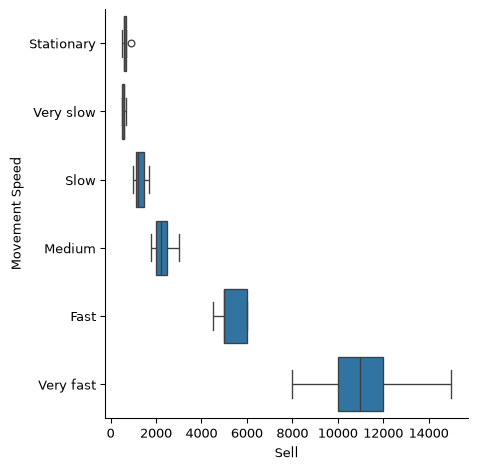
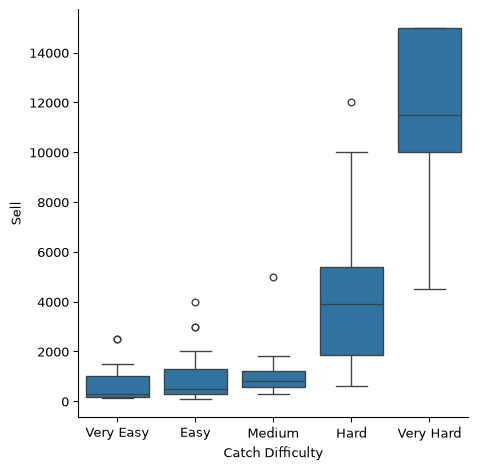
updated critter catching strategy

diff --git a/README.md b/README.md
@@ -6,10 +6,10 @@ Parri Salak
 Animal Crossing New Horizons (ACNH) is a popular video game, and one of
 my personal favorites. One task that players complete during the game is
 catching “critters” in order to complete their muesuem’s collection and
-sell them for money. In the game, each user has a “Critterpedia” that
-keeps track of everything they have caught and donated to the muesuem.
-It is broken down into three categories: Insects, Fish, and Sea
-Creatures.
+sell them for bells (the in-game currency). In the game, each user has a
+“Critterpedia” that keeps track of everything they have caught and
+donated to the muesuem. It is broken down into three categories:
+Insects, Fish, and Sea Creatures.
 
 Currently, the data for the these categories of critters is kept
 seperately. In this project I want to create one complete critterpedia
@@ -330,6 +330,38 @@ plt.show()
 
 It seems like the best time to catch insects is when it is not raining.
 
+``` python
+max_sell = insects['Sell'].max()
+max_sell_insesect = insects[insects['Sell'] == max_sell]
+max_sell_insesect
+```
+
+<div>
+<style scoped>
+    .dataframe tbody tr th:only-of-type {
+        vertical-align: middle;
+    }
+&#10;    .dataframe tbody tr th {
+        vertical-align: top;
+    }
+&#10;    .dataframe thead th {
+        text-align: right;
+    }
+</style>
+
+|  | \# | Name | Icon Image | Sell | Where/How | Weather | Total Catches to Unlock | Spawn Rates | NH Jan | NH Feb | ... | Catch phrase | HHA Base Points | HHA Category | Color 1 | Color 2 | Icon Filename | Critterpedia Filename | Furniture Filename | Internal ID | Unique Entry ID |
+|----|----|----|----|----|----|----|----|----|----|----|----|----|----|----|----|----|----|----|----|----|----|
+| 29 | 61 | giraffe stag | https://nh-cdn.catalogue.ac/MenuIcon/Ins77.png | 12000 | On palm trees | Any weather | 100 | 1 | NaN | NaN | ... | I caught a giraffe stag! Does that make it a l... | 64 | Pet | Black | Black | Ins77 | InsectGirafanokogirikuwagata | FtrInsectGirafanokogirikuwagata | 3482 | PSChjzMhGwhnsHTs4 |
+| 30 | 60 | golden stag | https://nh-cdn.catalogue.ac/MenuIcon/Ins50.png | 12000 | On palm trees | Any weather | 100 | 1 | NaN | NaN | ... | Wooooow! I caught a golden stag! Does this mea... | 64 | Pet | Black | Yellow | Ins50 | InsectOugononikuwagata | FtrInsectOugononikuwagata | 638 | 2C8cSphidFCBPxYEe |
+| 39 | 65 | horned hercules | https://nh-cdn.catalogue.ac/MenuIcon/Ins54.png | 12000 | On palm trees | Any weather | 100 | 1 | NaN | NaN | ... | I caught a horned hercules! Guess I was stronger! | 64 | Pet | Yellow | Black | Ins54 | InsectHerakuresuohkabuto | FtrInsectHerakuresuohkabuto | 600 | TqhEomNEMDZ2wcTpk |
+
+<p>3 rows × 45 columns</p>
+</div>
+
+The higgest sell price for insects is 12,000 bells. The three insects
+with this sell price are the giraffe stag, golden stag, and horned
+hercules.
+
 Next, I’ll look at the catch difficulty of fish and their sell prices.
 
 ``` python
@@ -341,10 +373,44 @@ sns.catplot(data=fish, x='Catch Difficulty', y='Sell', kind='box', order=custom_
 plt.show()
 ```
 
-![](readme_files/figure-commonmark/cell-10-output-1.png)
+![](readme_files/figure-commonmark/cell-11-output-1.png)
 
 As expected, the sell price appears to increase as the fish become more
 difficult to catch.
+
+``` python
+max_sell = fish['Sell'].max()
+max_sell_fish = fish[fish['Sell'] == max_sell]
+max_sell_fish
+```
+
+<div>
+<style scoped>
+    .dataframe tbody tr th:only-of-type {
+        vertical-align: middle;
+    }
+&#10;    .dataframe tbody tr th {
+        vertical-align: top;
+    }
+&#10;    .dataframe thead th {
+        text-align: right;
+    }
+</style>
+
+|  | \# | Name | Icon Image | Sell | Where/How | Shadow | Catch Difficulty | Vision | Total Catches to Unlock | Spawn Rates | ... | HHA Base Points | HHA Category | Color 1 | Color 2 | Lighting Type | Icon Filename | Critterpedia Filename | Furniture Filename | Internal ID | Unique Entry ID |
+|----|----|----|----|----|----|----|----|----|----|----|----|----|----|----|----|----|----|----|----|----|----|
+| 5 | 79 | barreleye | https://nh-cdn.catalogue.ac/MenuIcon/Fish84.png | 15000 | Sea | Small | Very Hard | Very Narrow | 100 | 1 | ... | 71 | Pet | Black | Black | Fluorescent | Fish84 | FishDemenigisu | FtrFishDemenigisu | 4204 | BpqTa4zmTjv3Nm4wE |
+| 18 | 80 | coelacanth | https://nh-cdn.catalogue.ac/MenuIcon/Fish63.png | 15000 | Sea (rainy days) | XX-Large | Very Hard | Very Narrow | 100 | 1–2 | ... | 71 | Pet | Black | Black | Fluorescent | Fish63 | FishSirakansu | FtrFishSirakansu | 2284 | NjMZQ6Xi9NswEXnHH |
+| 23 | 42 | dorado | https://nh-cdn.catalogue.ac/MenuIcon/Fish34.png | 15000 | River | X-Large | Very Hard | Narrow | 100 | 1–2 | ... | 71 | Pet | Yellow | Black | Fluorescent | Fish34 | FishDolado | FtrFishDolado | 2251 | G7ZwD67cRMHBwTSKH |
+| 30 | 29 | golden trout | https://nh-cdn.catalogue.ac/MenuIcon/Fish79.png | 15000 | River (clifftop) | Medium | Very Hard | Very Narrow | 100 | 1 | ... | 71 | Pet | Brown | Black | Fluorescent | Fish79 | FishGoldenTorauto | FtrFishGoldenTorauto | 4193 | wwGzR7FzWNJ7cDz9X |
+| 32 | 74 | great white shark | https://nh-cdn.catalogue.ac/MenuIcon/Fish62.png | 15000 | Sea | X-Large w/Fin | Very Hard | Narrow | 50 | 2 | ... | 71 | Pet | Blue | Blue | No lighting | Fish62 | FishSame | FtrFishSame | 2280 | EPypAeJGuTDGFJRnx |
+| 69 | 30 | stringfish | https://nh-cdn.catalogue.ac/MenuIcon/Fish26.png | 15000 | River (clifftop) | X-Large | Very Hard | Very Narrow | 100 | 1 | ... | 71 | Pet | Brown | Black | Fluorescent | Fish26 | FishItou | FtrFishItou | 2241 | APXg8kSzjcmoGGWSP |
+
+<p>6 rows × 48 columns</p>
+</div>
+
+The highest sell price for fish is 15,000 bells. There are six different
+fish that can be caught and sold at this price.
 
 Finally, I will look at the sell price for sea creatures based on their
 movement speed.
@@ -358,10 +424,40 @@ sns.catplot(data=sea_creatures, x='Sell', y='Movement Speed', kind='box', order=
 plt.show()
 ```
 
-![](readme_files/figure-commonmark/cell-11-output-1.png)
+![](readme_files/figure-commonmark/cell-13-output-1.png)
 
 Faster sea creatures, which are more difficult to catch, also seem to
 have a higher sell price.
+
+``` python
+max_sell = sea_creatures['Sell'].max()
+max_sell_sea_creature = sea_creatures[sea_creatures['Sell'] == max_sell]
+max_sell_sea_creature
+```
+
+<div>
+<style scoped>
+    .dataframe tbody tr th:only-of-type {
+        vertical-align: middle;
+    }
+&#10;    .dataframe tbody tr th {
+        vertical-align: top;
+    }
+&#10;    .dataframe thead th {
+        text-align: right;
+    }
+</style>
+
+|  | \# | Name | Icon Image | Sell | Shadow | Movement Speed | Total Catches to Unlock | Spawn Rates | NH Jan | NH Feb | ... | Color 1 | Color 2 | Lighting Type | Icon Filename | Critterpedia Filename | Furniture Filename | Version Added | Unlocked? | Internal ID | Unique Entry ID |
+|----|----|----|----|----|----|----|----|----|----|----|----|----|----|----|----|----|----|----|----|----|----|
+| 8 | 18 | gigas giant clam | https://nh-cdn.catalogue.ac/MenuIcon/Shakogai.png | 15000 | X-Large | Very fast | 80 | 1 | NaN | NaN | ... | NaN | NaN | Fluorescent | Shakogai | DiveFishShakogai | FtrDiveFishShakogai | 1.3.0 | Yes | 7214 | EQmRaHjokMEGTDC7G |
+
+<p>1 rows × 48 columns</p>
+</div>
+
+Gigas giant clams are the sea creature with the higgest sell price at
+15,000 bells. This is the same price as the higgest sell price for fish,
+but there were many more fish species at that price.
 
 ## Combining the Data
 
@@ -409,7 +505,7 @@ sns.countplot(data=critterpedia, x='type')
 plt.show()
 ```
 
-![](readme_files/figure-commonmark/cell-15-output-1.png)
+![](readme_files/figure-commonmark/cell-18-output-1.png)
 
 How does Sell price differ across types of critters?
 
@@ -419,7 +515,7 @@ sns.catplot(data=critterpedia, x='type', y='Sell', kind='box')
 plt.show()
 ```
 
-![](readme_files/figure-commonmark/cell-16-output-1.png)
+![](readme_files/figure-commonmark/cell-19-output-1.png)
 
 Just based on sell price for each type of critter, it seems like the
 best strategy for making money would be to focus on catching sea
@@ -486,7 +582,7 @@ The variable “Spawn Rates” respresents the percent chance of that
 critter being present on your island/avaiable to catch in your game at
 any given time. However, it is a string datatype right now because some
 of the values are listed as a range like “5-10”. I want to fix this and
-take the average value.
+take the lower number to be more conservative.
 
 ``` python
 #Split the string, take the first value, then make it an integer
@@ -591,4 +687,130 @@ sns.countplot(data=critterpedia, x='type', hue='Surface')
 plt.show()
 ```
 
-![](readme_files/figure-commonmark/cell-24-output-1.png)
+![](readme_files/figure-commonmark/cell-27-output-1.png)
+
+Based on this is, it seems like I am most likely to encounter insects in
+the wild, and sea creatures might take the most effort to locate.
+
+Now I want to look at which critters that spawn most frequently will
+sell for the higgest price.
+
+``` python
+#Showing critters with the higgest spawn rates that sell for the most bells
+target_critters = critterpedia[['Name', 'type', 'Spawn Rates', 'Sell']].sort_values(by=['Spawn Rates', 'Sell'], ascending=False).head(10)
+target_critters
+```
+
+<div>
+<style scoped>
+    .dataframe tbody tr th:only-of-type {
+        vertical-align: middle;
+    }
+&#10;    .dataframe tbody tr th {
+        vertical-align: top;
+    }
+&#10;    .dataframe thead th {
+        text-align: right;
+    }
+</style>
+
+|     | Name              | type   | Spawn Rates | Sell |
+|-----|-------------------|--------|-------------|------|
+| 23  | firefly           | insect | 200         | 300  |
+| 60  | red dragonfly     | insect | 80          | 180  |
+| 11  | common bluebottle | insect | 70          | 300  |
+| 62  | robust cicada     | insect | 70          | 300  |
+| 7   | brown cicada      | insect | 70          | 250  |
+| 49  | monarch butterfly | insect | 70          | 140  |
+| 15  | damselfly         | insect | 60          | 500  |
+| 5   | bell cricket      | insect | 60          | 430  |
+| 12  | common butterfly  | insect | 60          | 160  |
+| 32  | grasshopper       | insect | 60          | 160  |
+
+</div>
+
+The results in a top ten target critters that are insects. However, none
+of the sell prices are over 500. This is quite small considering that
+the higgest sell price for insects is 12,000. I want to see what the
+target critters would be if I decided to prioritze sell before spawn
+rates.
+
+``` python
+#Showing critters with the higgest sell price the spawn the most
+target_critters = critterpedia[['Name', 'type', 'Sell', 'Spawn Rates']].sort_values(by=['Sell', 'Spawn Rates'], ascending=False).head(10)
+target_critters
+```
+
+<div>
+<style scoped>
+    .dataframe tbody tr th:only-of-type {
+        vertical-align: middle;
+    }
+&#10;    .dataframe tbody tr th {
+        vertical-align: top;
+    }
+&#10;    .dataframe thead th {
+        text-align: right;
+    }
+</style>
+
+|     | Name              | type         | Sell  | Spawn Rates |
+|-----|-------------------|--------------|-------|-------------|
+| 112 | great white shark | fish         | 15000 | 2           |
+| 85  | barreleye         | fish         | 15000 | 1           |
+| 98  | coelacanth        | fish         | 15000 | 1           |
+| 103 | dorado            | fish         | 15000 | 1           |
+| 110 | golden trout      | fish         | 15000 | 1           |
+| 149 | stringfish        | fish         | 15000 | 1           |
+| 168 | gigas giant clam  | sea creature | 15000 | 1           |
+| 157 | whale shark       | fish         | 13000 | 1           |
+| 29  | giraffe stag      | insect       | 12000 | 1           |
+| 30  | golden stag       | insect       | 12000 | 1           |
+
+</div>
+
+Although this gives me the critters that can be sold for the most bells,
+they all have extremely low spawn rates that would make it difficult to
+specifically aim to catch them.
+
+Because of this, I am going to filter the data to only those critters
+with a high enough spawn rate and sell price. I will do that by only
+looking at critters that are above the average spawn rate since I can
+expect to encounter them on my island more frequently. Then I will sort
+these critters by their sell price.
+
+``` python
+target_critters = critterpedia[['Name', 'type', 'Sell', 'Spawn Rates']]
+target_critters = target_critters[target_critters['Spawn Rates'] >= critterpedia['Spawn Rates'].mean()]
+
+target_critters = target_critters.sort_values(by=['Sell', 'Spawn Rates'], ascending=False).head(10)
+target_critters
+```
+
+<div>
+<style scoped>
+    .dataframe tbody tr th:only-of-type {
+        vertical-align: middle;
+    }
+&#10;    .dataframe tbody tr th {
+        vertical-align: top;
+    }
+&#10;    .dataframe thead th {
+        text-align: right;
+    }
+</style>
+
+|     | Name                 | type   | Sell | Spawn Rates |
+|-----|----------------------|--------|------|-------------|
+| 52  | orchid mantis        | insect | 2400 | 15          |
+| 64  | saw stag             | insect | 2000 | 20          |
+| 71  | tiger beetle         | insect | 1500 | 15          |
+| 37  | horned dynastid      | insect | 1350 | 35          |
+| 47  | miyama stag          | insect | 1000 | 35          |
+| 34  | hermit crab          | insect | 1000 | 25          |
+| 44  | man-faced stink bug  | insect | 1000 | 20          |
+| 53  | paper kite butterfly | insect | 1000 | 20          |
+| 141 | salmon               | fish   | 700  | 20          |
+| 3   | bagworm              | insect | 600  | 50          |
+
+</div>
